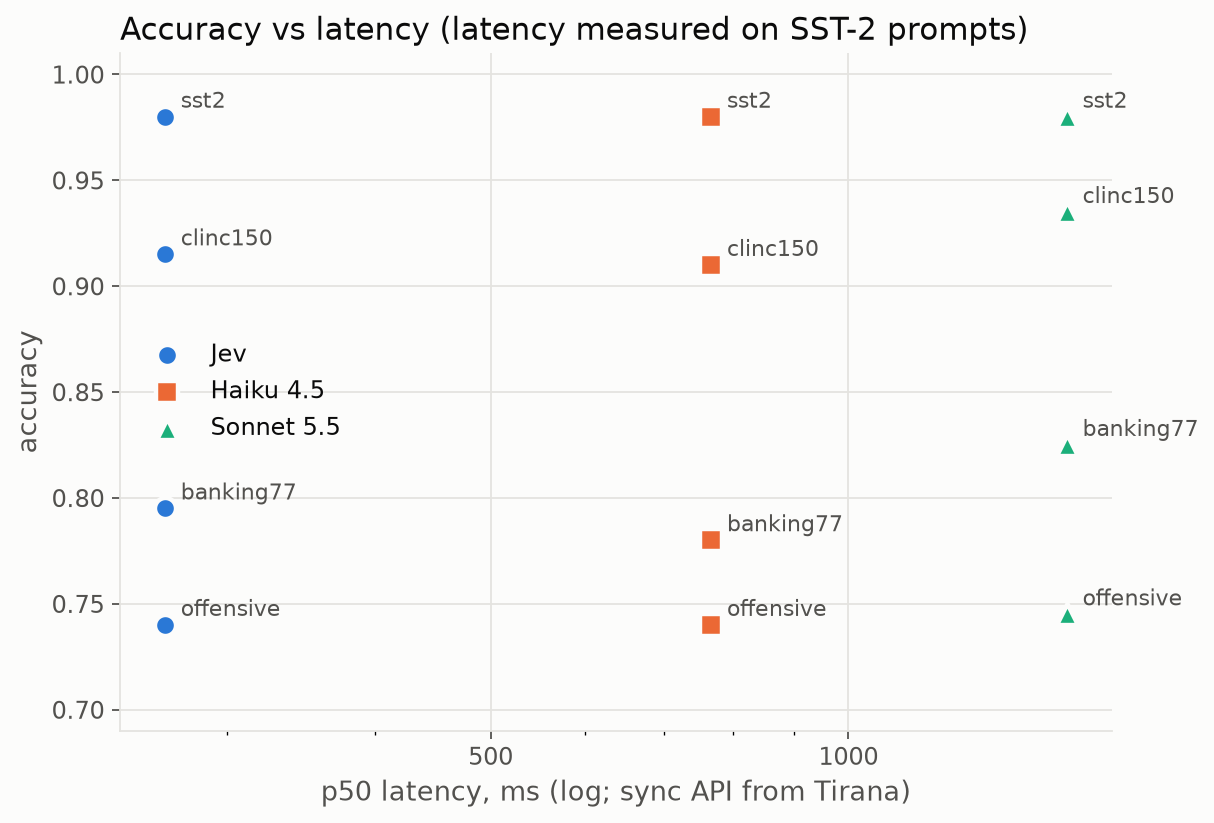
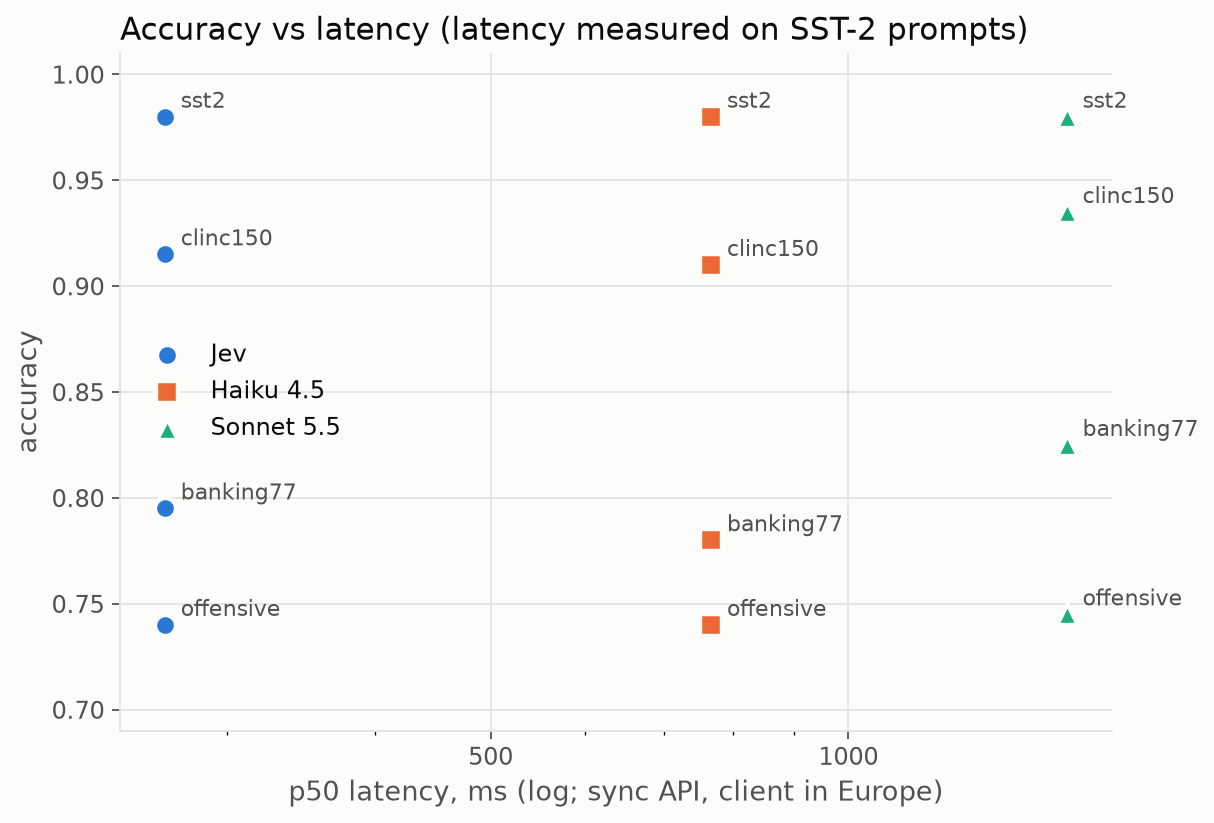
Write README: method, results, reproduction, extension guide, limitations
Also label latency as measured from a client in Europe and keep personal
write-up drafts out of the repo.

Changed region(s): [[0.2438, 0.9417, 0.7924, 0.9721]]

diff --git a/src/jev_bench/report.py b/src/jev_bench/report.py
@@ -428,7 +428,7 @@ def write_report(cfg: BenchConfig, raw_dir: Path = RAW_DIR, out_dir: Path = RESU
         )
         charts.append(selective_chart(units, ds, chart_dir / f"selective_{ds}.png"))
     for path in (
-        scatter_chart(df, "latency_p50_ms", "p50 latency, ms (log; sync API from Tirana)",
+        scatter_chart(df, "latency_p50_ms", "p50 latency, ms (log; sync API, client in Europe)",
                       "Accuracy vs latency (latency measured on SST-2 prompts)",
                       chart_dir / "accuracy_vs_latency.png", unit=""),
         scatter_chart(df, "cost_per_1k_standard", "USD per 1k decisions (log; standard prices)",

diff --git a/README.md b/README.md
@@ -1,0 +1,138 @@
+# jev-bench
+
+**A reproducible benchmark of TypeSafe's Jev, a "System One" decision model, against Claude Haiku 4.5 and Claude Sonnet 5.5 used as classifiers.** It measures accuracy, latency, cost and, above all, whether each model's confidence can be trusted.
+
+Jev returns a typed choice plus a probability for every option instead of free text. It cannot invent an option, but it can still pick the wrong one with high confidence. TypeSafe publishes speed, cost and "can't hallucinate" claims without a public benchmark, so this project tests them on four public datasets, under identical conditions, with every number traceable to a logged API call.
+
+## Headline results
+
+200 stratified examples per dataset; the same examples, labels and label descriptions for every model. Full tables with 95% bootstrap CIs are in [`results/summary.md`](results/summary.md).
+
+| | Jev | Claude Haiku 4.5 | Claude Sonnet 5.5 |
+|---|---|---|---|
+| **Accuracy** (SST-2 / Banking77 / CLINC150 / offensive) | 98.0 / 79.5 / 91.5 / 74.0 % | 98.0 / 78.0 / 91.0 / 74.0 % | 98.0 / 82.5 / 93.5 / 74.5 % |
+| **p50 latency** (sync API) | **266 ms** | 767 ms | 1,527 ms |
+| **p99 latency** | **653 ms** | 1,437 ms | 3,902 ms |
+| **Cost per 1k decisions** | **$0.015–0.145** | $0.20–1.79 (batch) | $0.49–0.61 (batch, with prompt caching) |
+| **AUROC of confidence** (Banking77 / CLINC150) | 0.85 / **0.90** | 0.81 / 0.72 | 0.85 / 0.86 |
+| **ECE** (SST-2) | **0.023** | 0.086 | 0.070 |
+| **Failures** (invalid output, refusal, API error) | 0 / 800 | 0 / 800 | 0 / 800 |
+
+What the data says:
+
+1. **Same accuracy, much faster and cheaper.** Jev is statistically tied with both Claude models on every dataset (all differences sit inside the 95% CIs). Its median latency is 2.9× lower than Haiku's and 5.7× lower than Sonnet's, and it costs 4–14× less than the cheapest Claude option on each dataset (Batch API, with caching) and 8–69× less than Claude at standard prices.
+2. **Real probabilities help rank answers.** On the intent datasets Jev's confidence separates right from wrong answers as well as or better than either LLM (AUROC 0.90 vs 0.72/0.86 on CLINC150), and it is the best-calibrated model on SST-2.
+3. **Confidence is not certainty.** Jev puts ≥0.99 on 37–72% of its answers. On the hardest task (offensive-language detection, 74% accuracy for all three models) 12.5% of its answers are wrong at ≥0.9 confidence, versus 8.0% for Haiku and 5.0% for Sonnet. "Can't hallucinate an option" does not mean "can't be confidently wrong".
+4. **A bigger LLM calibrates better, mostly.** Sonnet beats Haiku on AUROC on 3 of 4 datasets and has fewer confident-but-wrong answers on 3 of 4, but Haiku has the lower ECE on CLINC150.
+5. **Self-consistency is a poor confidence signal here.** Sampling Haiku 5 times (temperature 1.0) gave unanimous answers on 93 of 100 Banking77 examples, wrong ones included: AUROC 0.54 and 21% wrong at "100% agreement", at 5× the cost of asking once.
+
+<p align="center">
+  <img src="results/charts/accuracy_vs_cost.png" width="49%" alt="Accuracy vs cost per 1k decisions">
+  <img src="results/charts/accuracy_vs_latency.png" width="49%" alt="Accuracy vs p50 latency">
+</p>
+
+![Reliability diagrams on the offensive-language dataset](results/charts/reliability_offensive.png)
+
+## Method
+
+### Models and how they are asked
+
+| | Jev | Claude (Haiku 4.5, Sonnet 5.5) |
+|---|---|---|
+| Interface | `system_one` with one `Choice` question (option → description) | Messages API with a JSON-schema structured output `{label: enum, confidence: number}` |
+| Output | chosen option + a probability for every option | chosen label + a **verbalized** confidence in [0, 1] |
+| Sampling | n/a | Haiku: temperature 0. Sonnet 5.5 rejects non-default sampling parameters, so it runs at the default, with thinking disabled (`between_tools`) |
+| Accuracy runs | sync API, concurrency 4 | Message Batches API (50% off) |
+| Latency runs | sync API, concurrency 4 | sync Messages API, concurrency 4, no prompt caching |
+
+Both models receive the same task instruction and the same one-line description for every label, generated from one file per dataset in [`src/jev_bench/datasets/labels/`](src/jev_bench/datasets/labels).
+
+### Confidence, labeled everywhere
+
+- **Jev, native max-prob**: the largest value in the returned distribution. This is the calibration target.
+- **Jev, API confidence**: Jev's own `confidence` field, a measure of how concentrated the whole distribution is (1 when all mass is on one option, 0 when it is uniform). It is reported separately; it never beats max-prob for calibration and is clearly worse on the binary tasks.
+- **Claude, verbalized**: the model states its own probability. Claude exposes no token probabilities in this setup, so this is a weaker signal than Jev's distribution by construction. That asymmetry is part of what the benchmark measures.
+- **Claude, self-consistency** (Haiku, Banking77, 100 examples): agreement rate across k = 5 samples at temperature 1.0.
+
+### Datasets
+
+| Dataset | Task | Classes | Split | Source |
+|---|---|---|---|---|
+| SST-2 | movie-review sentiment | 2 | validation | `stanfordnlp/sst2` |
+| Banking77 | banking intent | 77 | test | `legacy-datasets/banking77` |
+| CLINC150 (plus) | assistant intent + out-of-scope | 151 | test | `clinc/clinc_oos` |
+| tweet_eval offensive | offensive-language detection | 2 | test | `cardiffnlp/tweet_eval` |
+
+Samples are seeded and stratified, and every sample is a prefix of one fixed class-balanced ordering, so the 20-example development sample is exactly the first 20 of the 200-example one and each class stays within one example of its population share.
+
+### Metrics
+
+Accuracy and macro-F1 (failures count as wrong), ECE and MCE (15 equal-width bins), top-label Brier score, AUROC of confidence for correct vs. wrong (ties count ½), confident-but-wrong rate at 0.8 and 0.9, selective accuracy vs. coverage, share of hard (≥ 0.99) predictions, latency p50/p95/p99, cost per 1k decisions, and failure rates by type. Accuracy and ECE get percentile-bootstrap 95% CIs (1,000 resamples).
+
+Calibration metrics use answered predictions only, since a failure has no confidence; failures are reported separately and are never dropped. Brier is computed on the chosen label because Claude gives no full distribution, which keeps it comparable across models.
+
+### Cost accounting
+
+Every cost comes from the `usage` block of a real API response multiplied by the prices in [`config/bench.yaml`](config/bench.yaml): Jev $0.042/M input tokens (output free); Haiku 4.5 $1/$5 per M; Sonnet 5.5 $2/$10 per M; 50% off through the Batches API; prompt-cache writes at 1.25× and reads at 0.1× of input. The whole benchmark, including development runs, cost **$1.82** of Anthropic credit and about **$0.06** of Jev credit.
+
+## Reproduce it
+
+Requires [uv](https://docs.astral.sh/uv/) and Python 3.11, plus API keys for TypeSafe and Anthropic.
+
+```bash
+git clone https://github.com/endikoci02/jev-bench.git
+cd jev-bench
+uv sync
+cp .env.example .env              # then fill in TYPESAFE_API_KEY and ANTHROPIC_API_KEY
+
+uv run jev-bench estimate         # call counts and estimated cost per model; spends nothing
+uv run jev-bench run --dev        # 20 examples per dataset, all models
+uv run jev-bench run              # 200 examples per dataset (Claude via the Batches API)
+uv run jev-bench run --latency    # sync latency run
+uv run jev-bench run --self-consistency
+uv run jev-bench report           # results/summary.csv, summary.md and charts
+uv run jev-bench budget           # recorded spend and what is left under the cap
+```
+
+Every call goes through a content-addressed disk cache, so rerunning anything already run costs $0. A persistent spend ledger enforces a hard cap on Anthropic spend (default $4.00): a run whose estimate exceeds the remaining budget is refused, and a run that reaches the cap aborts. Batch IDs are saved as they are submitted, so an interrupted run resumes the same batches instead of paying for them twice.
+
+Tests and lint need no API keys:
+
+```bash
+uv run pytest
+uv run ruff check . && uv run ruff format --check .
+```
+
+## Project layout
+
+```
+config/bench.yaml           models, prices, run sizes, budget cap, datasets
+src/jev_bench/
+  datasets/                 loaders -> Example(id, text, label, label_space), label descriptions
+  adapters/jev.py           Jev Choice question, native probabilities
+  adapters/claude.py        one class for any Claude model: sync, batch, self-consistency
+  runner.py                 async sync path, chunked Batches API path with resume, spend tracker
+  cache.py, budget.py       disk cache and spend ledger with hard cap
+  metrics.py, report.py     metrics, summary tables, charts
+  cli.py                    estimate | run | report | budget
+tests/                      unit tests with mocked HTTP; no test calls a real API
+results/                    summary.csv, summary.md, charts, spend ledger (raw logs gitignored)
+```
+
+## Extending it
+
+**Add a dataset.** Add an entry under `datasets:` in `config/bench.yaml` (Hugging Face path, config, split, text and label fields) and a `src/jev_bench/datasets/labels/<name>.yaml` with the task instruction and one description per label. The loader refuses to run if the descriptions do not match the dataset's labels exactly.
+
+**Add a Claude model.** Add an entry under `models:` with `provider: anthropic`, its model ID, prices and sampling settings. No code changes are needed.
+
+**Add another provider.** Implement the `Decider` protocol in `src/jev_bench/types.py` (`async decide(example, label_space) -> Decision`) in a new adapter and register it in `src/jev_bench/registry.py`.
+
+## Limitations
+
+- **Sample size.** 200 examples per dataset gives 95% CIs about ±3–6 accuracy points; most accuracy differences between models are within them.
+- **Claude's confidence is verbalized.** It is a weaker signal than a probability distribution by construction; the comparison measures what each API actually offers, not an idealized LLM.
+- **Sampling differs between Claude models.** Haiku runs at temperature 0; Sonnet 5.5 does not accept a temperature setting and runs at its default.
+- **Prompt caching affects cost unevenly.** Sonnet's long-label prompts (Banking77, CLINC150) exceed its 512-token caching minimum and are mostly served from cache; Haiku's are below its 4,096-token minimum. This reflects real pricing, but it is why Sonnet is cheaper than Haiku on those datasets.
+- **Latency was measured once,** from a single client in Europe, on short SST-2 prompts, 50 timed calls per model. Long-label prompts will be slower for every model, and p99 from 50 calls is noisy.
+- **Self-consistency** was run for Haiku on one dataset only, to stay within budget.
+- **Model versions drift.** Results are for `jev-1.13.0` (resolved from `jev-latest`), `claude-haiku-4-5-20251001` and `claude-sonnet-5-5`, measured in October 2026; every logged call records the version that answered it.

diff --git a/results/summary.md b/results/summary.md
@@ -43,7 +43,7 @@ Claude has no native probabilities here: its confidence is *verbalized* or *self
 
 ## Latency (sync Messages API / Jev API)
 
-Client: Tirana, Albania (Europe). Concurrency per provider: {'typesafe': 4, 'anthropic': 4}. 5 warmup calls excluded. Dataset: sst2.
+Client: a single client in Europe. Concurrency per provider: {'typesafe': 4, 'anthropic': 4}. 5 warmup calls excluded. Dataset: sst2.
 
 | model | n | p50 ms | p95 ms | p99 ms | failures |
 |---|---|---|---|---|---|
